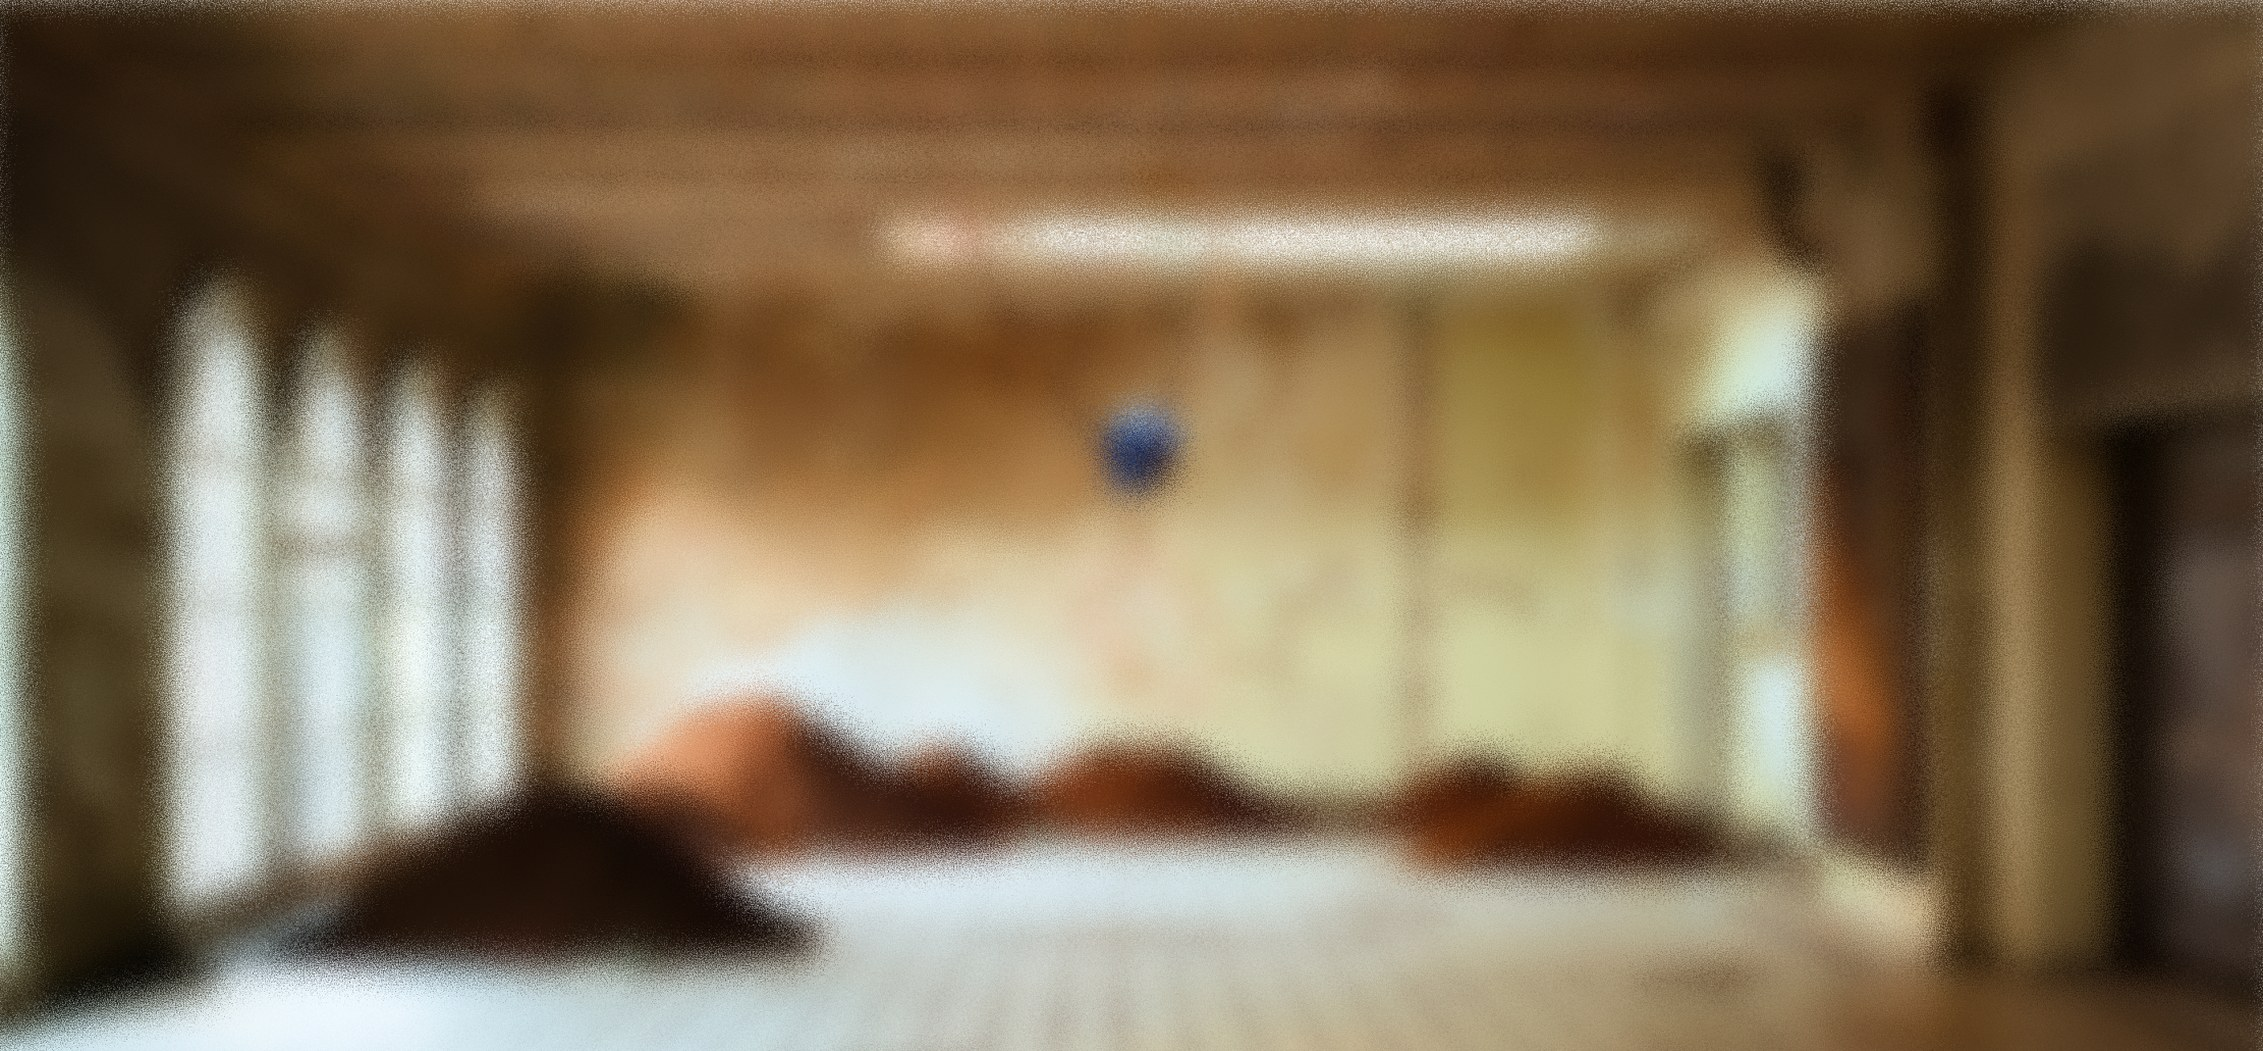
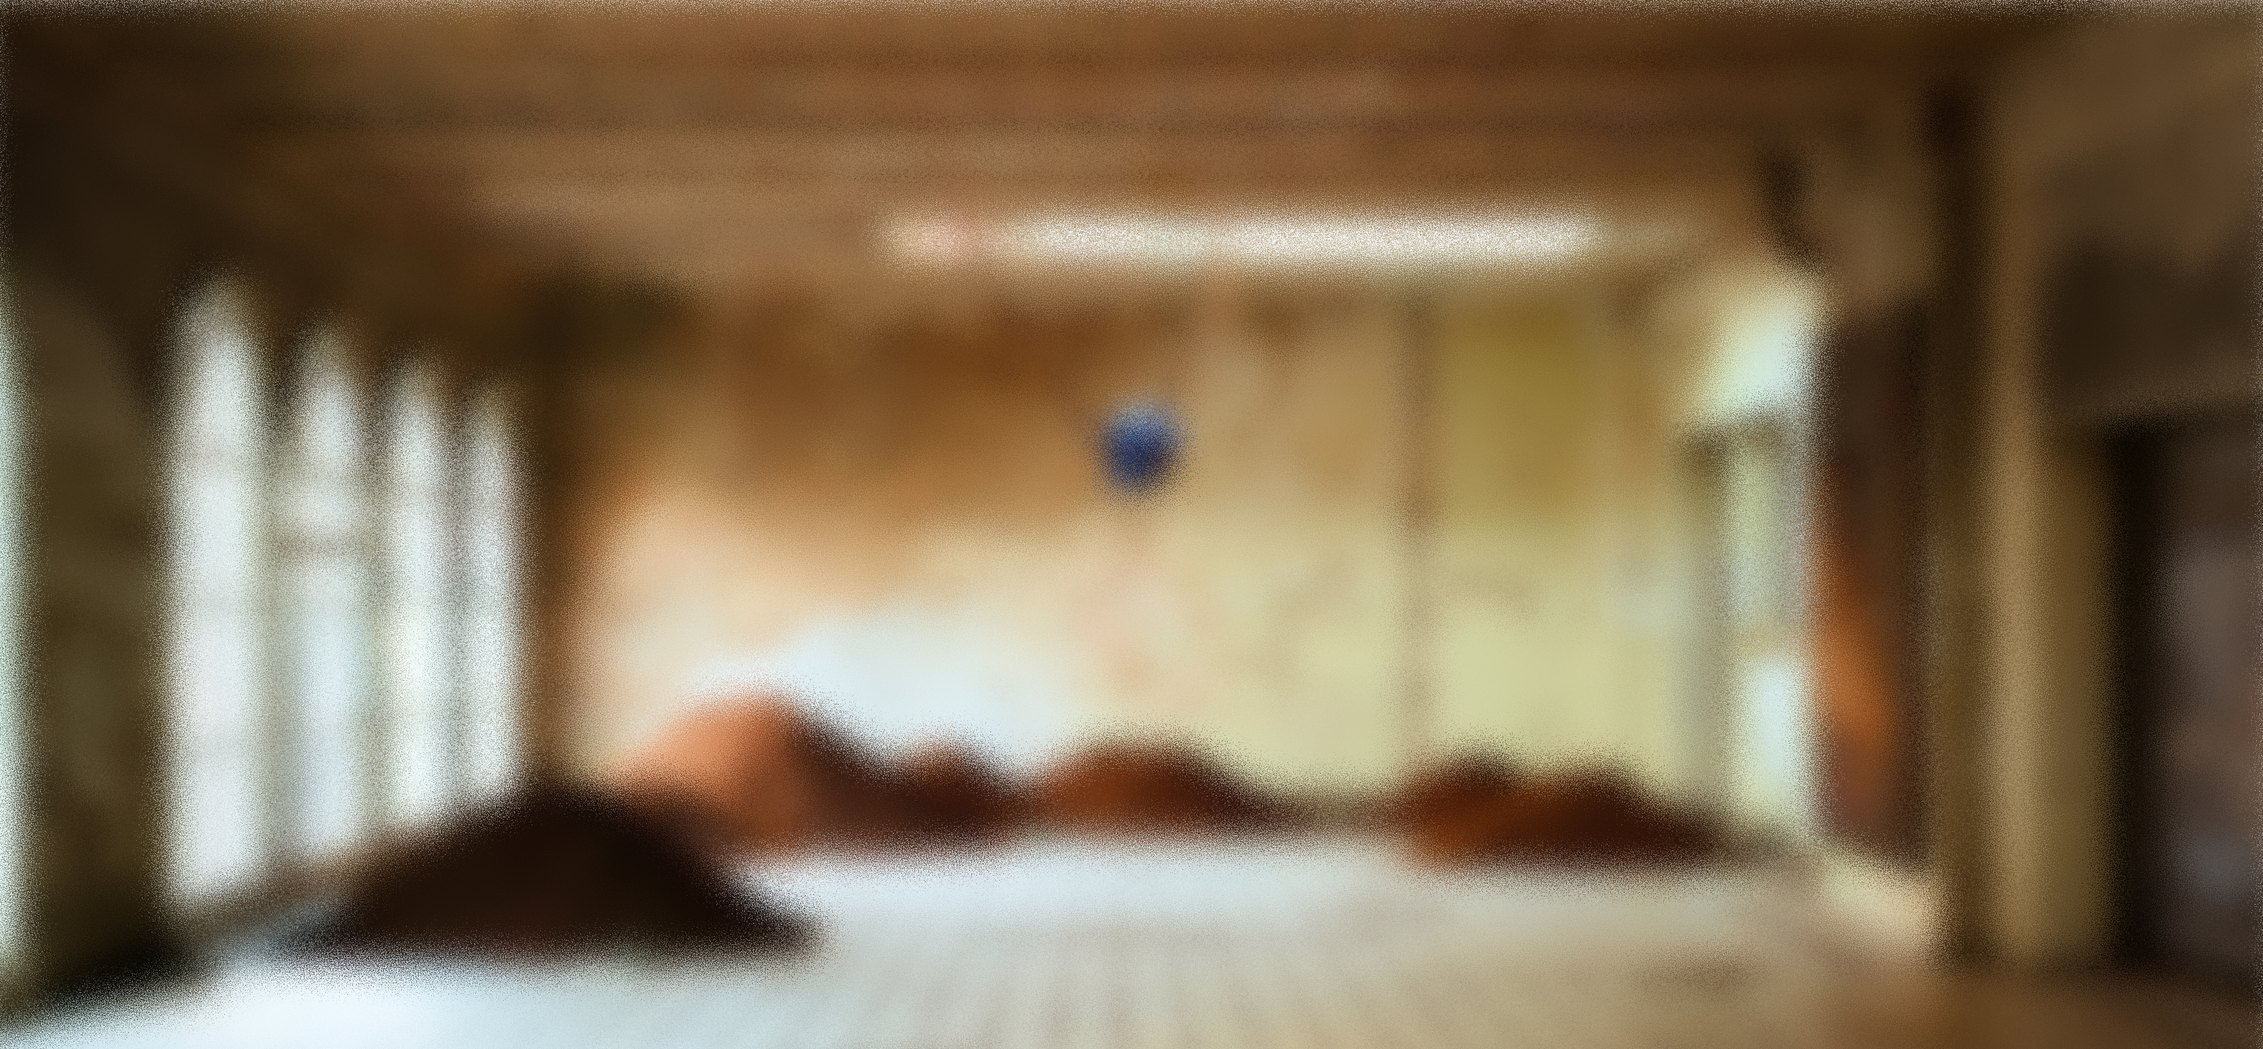
Look closer: alona's new day photos (sharp + blurred)
Claude-Session: https://claude.ai/code/session_01VzsnQKzrscZkNho94ZKW1E

diff --git a/src/lens.html b/src/lens.html
@@ -101,8 +101,8 @@
 </head>
 <body class="home2 lens-page">
   <div class="lens-hero" id="lens">
-    <img class="lens-bottom" data-src="{{root}}images/lens/sharp.jpg" alt="What We Venerate: piles of earth in an old hall, a blue stone hanging from chains" width="2263" height="1051">
-    <img class="lens-top" src="{{root}}images/lens/blur.jpg" alt="" aria-hidden="true" fetchpriority="high" width="2263" height="1051">
+    <img class="lens-bottom" data-src="{{root}}images/lens/sharp.jpg" alt="What We Venerate: piles of earth in an old hall, a blue stone hanging from chains" width="2263" height="1049">
+    <img class="lens-top" src="{{root}}images/lens/blur.jpg" alt="" aria-hidden="true" fetchpriority="high" width="2263" height="1049">
   </div>
 
   <p class="lens-note" aria-live="polite"></p>
@@ -160,13 +160,13 @@
     var note = document.querySelector('.lens-note');
     var shownText = '';
 
-    // Hotspots, in pixels of the photo (2263 x 1051; the night photo is
+    // Hotspots, in pixels of the photo (2263 x 1049; the night photo is
     // framed the same). x, y = centre, size = how close counts as "on it".
     // Add more parts here: { x, y, size, text }.
-    var IMG_W = 2263, IMG_H = 1051;
+    var IMG_W = 2263, IMG_H = 1049;
     var HOTSPOTS = [
       { x: 1142, y: 452, size: 110, text: 'inherited stone lapis lazuli' },
-      { x: 790, y: 760, size: 150, text: 'Piles of coffee and tea as\na tribute to his mother\u2019s morning rituals' }
+      { x: 790, y: 790, size: 150, text: 'Piles of coffee and tea as\na tribute to his mother\u2019s morning rituals' }
     ];
     // Photo pixels -> screen pixels (the photo covers the screen).
     function hit(px, py) {
